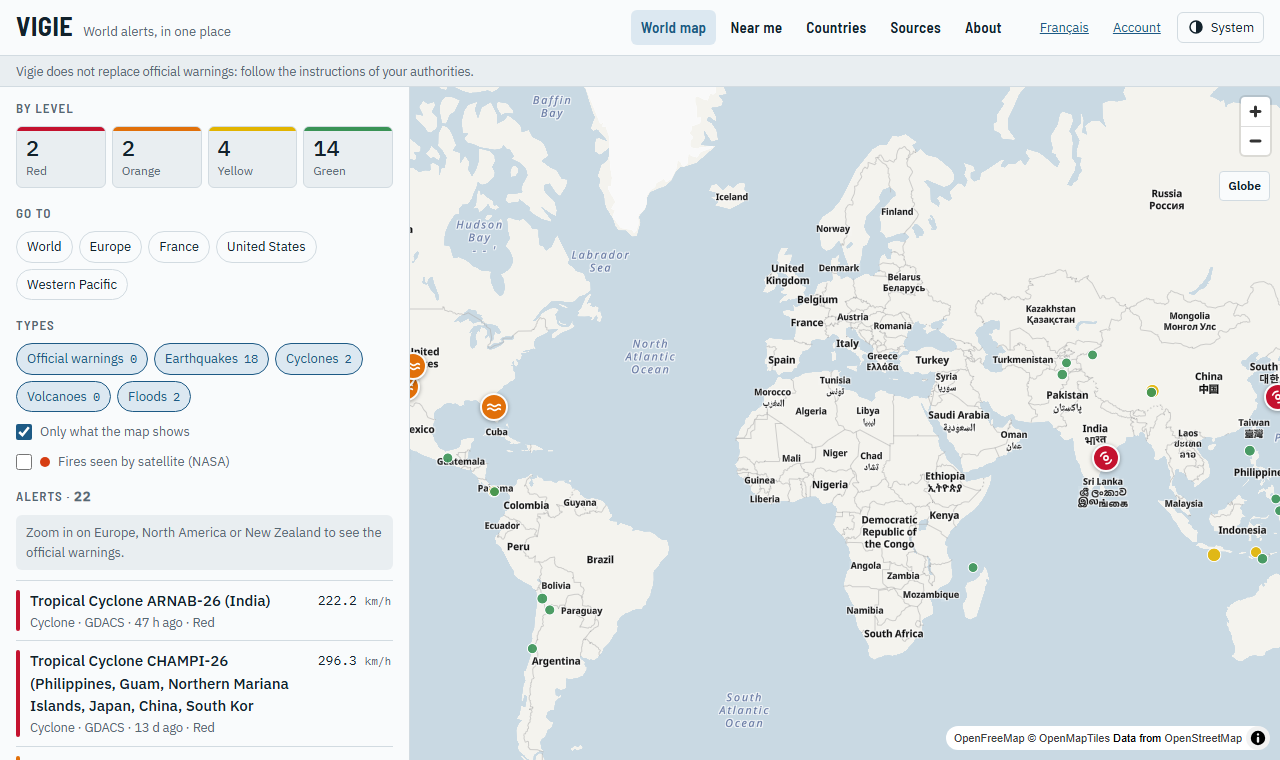
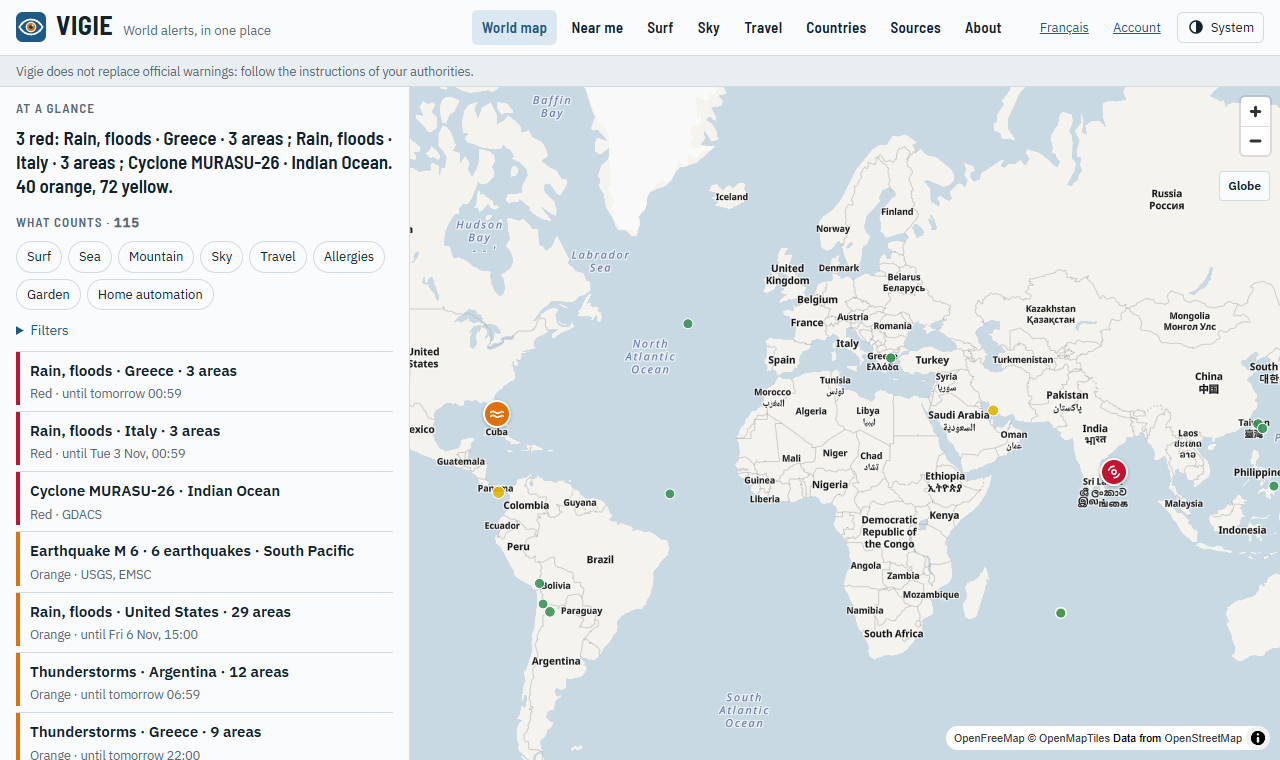
docs(readme): a screenshot of the home page as it is today (#53)
The picture still showed the home page before the redesign of October 29 (counts
by level, no Surf, Sky or Travel tab). Captured again on 2026-11-01 from the public
instance, light theme, 1280 px; the alternative text says what it shows now.

diff --git a/README.md b/README.md
@@ -15,7 +15,7 @@ which caches every feed once for everybody.
 
 Public instance: <https://vigie.auxfilsdesidees.fr>
 
-![The world map of Vigie Web: hazards on the map, counts by level and the list of alerts](docs/images/map.png)
+![The world map of Vigie Web: the point of the moment, the alerts the strongest first, the hazards on the map](docs/images/map.png)
 
 ## What it shows
 
